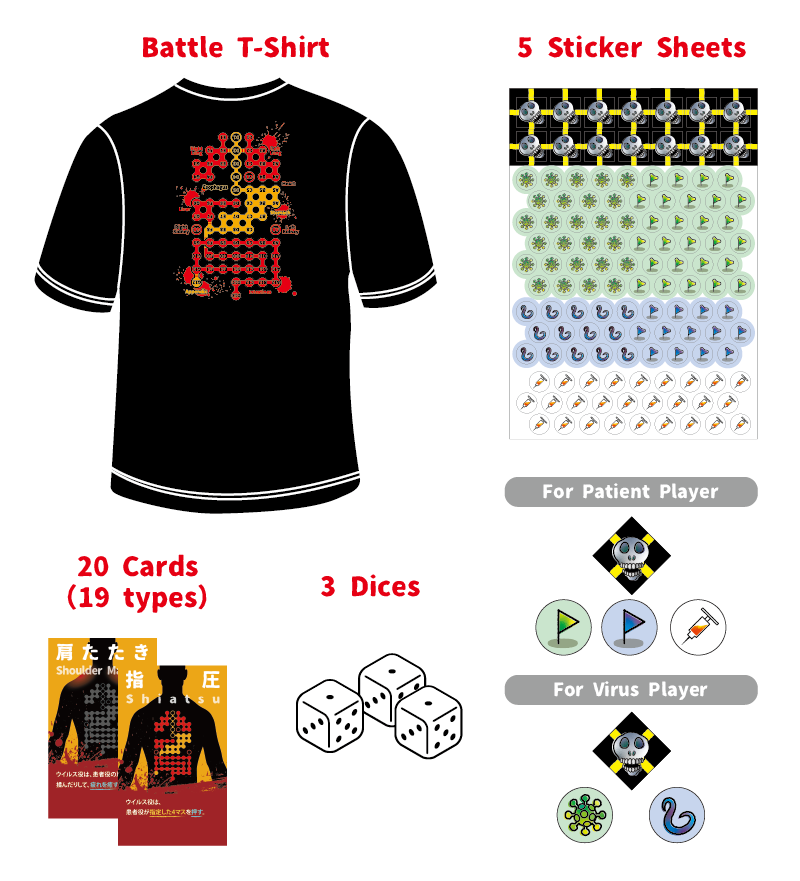
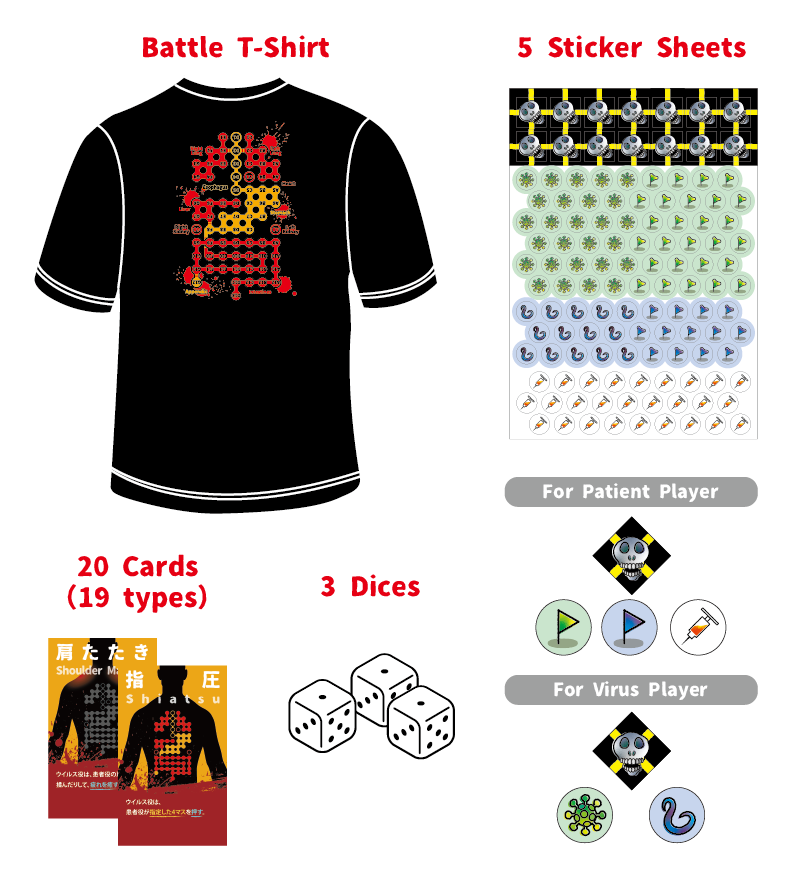
add setup image

Changed region(s): [[0.3438, 0.7355, 0.5938, 0.8581]]

diff --git a/10turntshirt.md b/10turntshirt.md
@@ -51,6 +51,8 @@ One of the following conditions is met.
 
 ## Setup - ゲームの準備
 
+![Setup Image]({{site.baseurl}}/images/10turntshirt/setup.png)
+
 > - じゃんけんで患者役を決めます。 
 > - 患者役はバトルTシャツを着ます。※Ｔシャツは背面が正常な文字方向、腹面がさかさまの文字方向になります。 
 > - Ｔシャツの位置合わせ（ゼロ点調整）をします。 
